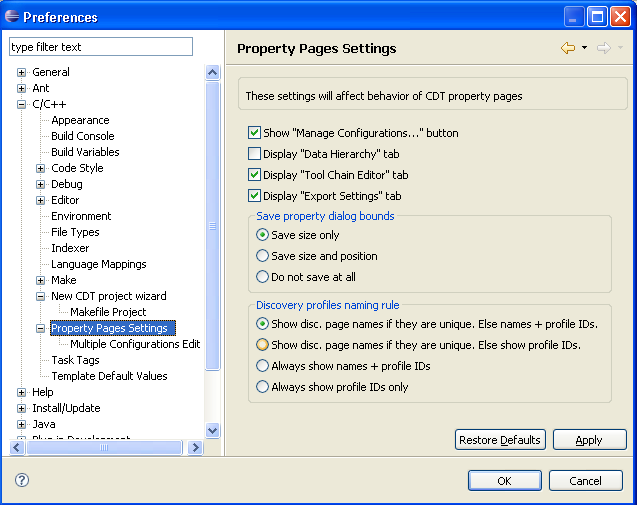
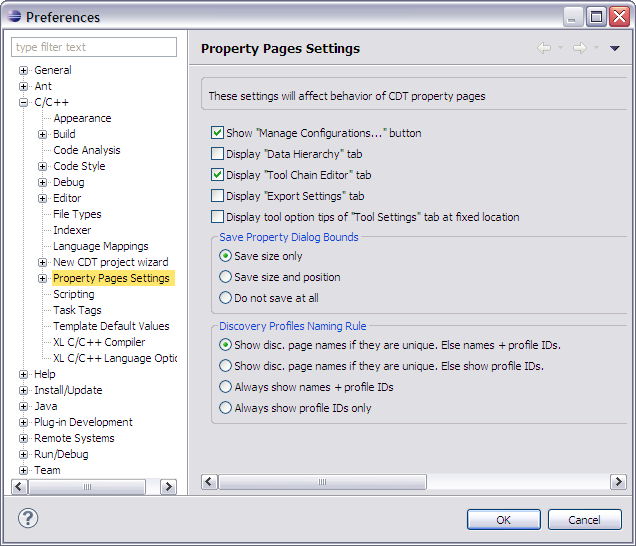
Revised Property Pages and Multi-Config pref panels

diff --git a/all/org.eclipse.cdt.doc.user/reference/cdt_u_pref_multi_cfg.htm b/all/org.eclipse.cdt.doc.user/reference/cdt_u_pref_multi_cfg.htm
@@ -6,56 +6,63 @@
 	<meta http-equiv="Content-Type" content="text/html; charset=UTF-8">
 	<title>Multi-Configuration Edit preferences</title>
 	<link rel="stylesheet" type="text/css" href="../help.css">
+	<script language="JavaScript" src="PLUGINS_ROOT/org.eclipse.help/livehelp.js"></script>
 </head>
 <body>
 
 <h1>Multi-Configuration Edit preferences</h1>
-
-<p>Since CDT 5.0, user is able to edit properties for 
-multiple project configurations simultaneously.</p>
-<p>Either all configuations or some of them can be selected.</p>
-<p>But, then we deal with string list property values, 
-it is not obvious how to concatenate them, if they differ.</p>
-
-
+<p>Use the <img src="../images/command_link.png" border="0" alt="" /> <a class="command-link" href='javascript:executeCommand("org.eclipse.ui.window.preferences(preferencePageId=org.eclipse.cdt.managedbuilder.ui.preferences.PrefPage_MultiConfig)")'>Multi-Configuration Edit</a> preference panel to simultaneously edit properties for multiple project configurations. Its possible to select one or more configurations for editing.</p>
+<p>But, then we deal with string list property values, it is not obvious how to concatenate them, if they differ.</p>
 <p><img src="../images/cdt_pref-multi-cfg.png" alt="Multi-Configuration Edit preferences tab"></p>
-<dl>
-  <dt>String list Display Mode</dt>
-  <dd>Specifies how values will be shown.<br>
-  There are 2 options: conjunction or disjunction.
-  <ul>
-  <li><strong>Conjunction</strong> shows common elements only, so if 1st configuration has 
-  value &lt;A, B, C&gt; and 2nd configuration has &lt;B, C, D&gt;, &lt;B, C&gt; will be shown. 
-  <li><strong>Disjunction</strong> shows all existing elements except doubles, so if 1st configuration has 
-  value &lt;A, B, C&gt; and 2nd configuration has &lt;B, C, D&gt;, &lt;A, B, C, D&gt; will be shown. 
-  </ul>
-  Note that Display mode can be changed directly on each tab which deals with string lists.
-  Result is immediate: data on the tab refereshed according to selected mode.<br>
-  </dd>
-  <dt>String list Write Mode</dt>
-  <dd>Specifies how values will be saved.<br>
-  There are 2 options: modify or replace.
-  <ul>
-  <li><strong>Modify mode</strong> adds, changes or removes elements affected by user's actions.
-  Elements which were not touched by user are left unchanged.<br>   
-  Example: cfg1 has &lt;A, B, C&gt;; cfg2 has &lt;B, C, D&gt;.<br>
-  User removed B and added F.<br>
-  Result: cfg1 has &lt;A, C, F&gt;; cfg2 has &lt;C, D, F&gt;.
-  <li><strong>Replace mode</strong> puts currently visible elements to all configurations.
-  Old contents will be lost.<br>
-  Example: cfg1 has &lt;A, B, C&gt;; cfg2 has &lt;B, C, D&gt;.<br>
-  Visible list depends of Display mode: &lt;B, C&gt; or &lt;A, B, C, D&gt;.<br>
-  User removed B and added F.<br>
-  Result: both cfgs will contain either &lt;C, F&gt; or &lt;A, C, D, F&gt; depending of Display mode.
-  </ul>
-  Note that Write mode can be changed directly on each tab which deals with string lists.<br>
-  </dd>
-  <dt>Restore Defaults</dt>
-  <dd>Sets all parameters to default values</dd>
-  <dt>Apply</dt>
-  <dd>Saves current settings.</dd>
-</dl>
 
+<table width="600px" cellpadding="5" cellspacing="0" border="1" fgcolor="DDD" >
+	<caption><strong>Property Pages Settings Preference Options</strong></caption>
+	<colgroup>
+		<col width="30%" valign="top" >
+		<col width="70%" valign="top" >
+	</colgroup>
+	<thead>
+		<tr>
+			<th><b>Option</b></th>
+			<th><b>Description</b></th>
+		</tr>
+	</thead>
+	<tbody>
+		<tr valign="top" >
+			<td><b>String list Display Mode</b></td>
+			<td>Specifies how values are shown. The two options are:
+			  <ul>
+			  <li><b>Conjunction</b> shows common elements only, so if 1st configuration has 
+			  value &lt;A, B, C&gt; and 2nd configuration has &lt;B, C, D&gt;, &lt;B, C&gt; will be shown. 
+			  <li><b>Disjunction</b> shows all existing elements except doubles, so if 1st configuration has 
+			  value &lt;A, B, C&gt; and 2nd configuration has &lt;B, C, D&gt;, &lt;A, B, C, D&gt; will be shown. 
+			  </ul>
+			  Note that Display mode can be changed directly on each tab which deals with string lists.
+			  Result is immediate: data on the tab is refreshed according to selected mode.</td>
+		</tr>
+		<tr valign="top" >
+			<td><b>String list Write Mode</b></td>
+			<td>Specifies how values are saved. The two options are:
+			  <ul>
+			  <li><strong>Modify mode</strong> adds, changes or removes elements affected by user's actions.
+			  Elements which were not touched by user are left unchanged.<br>   
+			  Example: cfg1 has &lt;A, B, C&gt;; cfg2 has &lt;B, C, D&gt;.<br>
+			  User removed B and added F.<br>
+			  Result: cfg1 has &lt;A, C, F&gt;; cfg2 has &lt;C, D, F&gt;.
+			  <li><strong>Replace mode</strong> puts currently visible elements to all configurations.
+			  Old contents will be lost.<br>
+			  Example: cfg1 has &lt;A, B, C&gt;; cfg2 has &lt;B, C, D&gt;.<br>
+			  Visible list depends of Display mode: &lt;B, C&gt; or &lt;A, B, C, D&gt;.<br>
+			  User removed B and added F.<br>
+			  Result: both cfgs will contain either &lt;C, F&gt; or &lt;A, C, D, F&gt; depending of Display mode.
+			  </ul>
+			  Note that Write mode can be changed directly on each tab which deals with string lists.</td>
+		</tr>
+	</tbody>
+</table>
+
+<p><img border="0" src="../images/ngref.gif" ALT="Related reference" width="143" height="21"><br />
+<a href="cdt_u_pref_prop_pages.htm">Property Pages Settings preferences</a></p>
 </body>
 
 </html>

diff --git a/all/org.eclipse.cdt.doc.user/reference/cdt_u_pref_prop_pages.htm b/all/org.eclipse.cdt.doc.user/reference/cdt_u_pref_prop_pages.htm
@@ -6,46 +6,72 @@
 	<meta http-equiv="Content-Type" content="text/html; charset=UTF-8">
 	<title>Property Pages Settings preferences</title>
 	<link rel="stylesheet" type="text/css" href="../help.css">
+	<script language="JavaScript" src="PLUGINS_ROOT/org.eclipse.help/livehelp.js"></script>
 </head>
 <body>
 
 <h1>Property Pages Settings preferences</h1>
 
-<p>These settings affect behaviour of CDT property pages.</p>
-<p><img src="../images/cdt_pref-prop-pages.png" alt="Property Pages Settings preferences tab"></p>
-<dl>
-  <dt>Show 'Manage Configurations...' button</dt>
-  <dd>Shows or hides corresponding button, normally placed on every property page.<br>
-      If this button is hidden, Manage operation can be accessed from Main Menu or Context Menu.</dd>
-  <dt>Display 'Data hierarchy' tab</dt>
-  <dd>Displays auxilliary tab which allows browsing data of project configurations.
-      This feature is useful for debug purposes mostly, so it's disabled by default.</dd>
-  <dt>Display 'Tool Chain Editor' tab</dt>
-  <dd>Shows or hides corresponding tab. Normally, users need not to edit tool chains manually.</dd>
-  <dt>Save property dialog bounds</dt>
-  <dd>Defines how property dialog parameters will be preserved: 
-  <ul>
-    <li>Save dialog size only (position is set by system).
-    <li>Save dialog and position (next time, dialog will be shown on the same place with the same size).
-    <li>Do not save at all (size and position is set by system each time when dialog is shown).
-  </ul>
-  </dd>
-  <dt>Discovery profiles naming rule</dt>
-  <dd>Discovery profiles have unique IDs, but their names may be duplicate, 
-      expecially if they are contributed by different developers. So there 
+<p>Use the <img src="../images/command_link.png" border="0" alt="" /> <a class="command-link" href='javascript:executeCommand("org.eclipse.ui.window.preferences(preferencePageId=org.eclipse.cdt.managedbuilder.ui.preferences.PrefPage_PropertyPage)")'>Property Pages Settings</a> preference panel to set the behaviors of CDT property pages.</p>
+<p><img src="../images/cdt_pref-prop-pages.png" alt="Property Pages Settings Preference Panel"></p>
+
+<table width="600px" cellpadding="5" cellspacing="0" border="1" fgcolor="DDD" >
+	<caption><strong>Property Pages Settings Preference Options</strong></caption>
+	<colgroup>
+		<col width="30%" valign="top" >
+		<col width="70%" valign="top" >
+	</colgroup>
+	<thead>
+		<tr>
+			<th><b>Option</b></th>
+			<th><b>Description</b></th>
+		</tr>
+	</thead>
+	<tbody>
+		<tr valign="top" >
+			<td><b>Show 'Manage Configurations...' button</b></td>
+			<td>Shows or hides corresponding button, normally placed on every property page.<br>
+      If this button is hidden, Manage operation can be accessed from Main Menu or Context Menu.</td>
+		</tr>
+		<tr valign="top" >
+			<td><b>Display 'Data hierarchy' tab</b></td>
+			<td>Displays auxiliary tab which allows browsing data of project configurations.
+      This feature is useful for debug purposes mostly, so it's disabled by default.</td>
+		</tr>
+		<tr valign="top" >
+			<td><b>Display tool option tips of 'Tool Settings' tab at fixed location</b></td>
+			<td></td>
+		</tr>
+		<tr valign="top" >
+			<td><b>Display 'Tool Chain Editor' tab</b></td>
+			<td>Shows or hides corresponding tab. Normally, users need not to edit tool chains manually.</td>
+		</tr>
+		<tr valign="top" >
+			<td><b>Save Property Dialog Bounds</b></td>
+			<td>Defines how property dialog parameters are preserved: 
+			  <ul>
+			    <li><b>Save size only</b> - position is set by system</li>
+			    <li><b>Save size and position</b> - next time, dialog is shown at the same place with the same size</li>
+			    <li><b>Do not save at all</b> - size and position is set by system each time dialog is shown</li>
+			  </ul></td>
+		</tr>
+		<tr valign="top" >
+			<td><b>Discovery Profiles Naming Rule</b></td>
+			<td>Discovery profiles have unique IDs, but their names may be duplicate, 
+      especially if they are contributed by different developers. So there 
       are 4 way to distinguish them in the list on Discovery tab:
   <ul>
-    <li>Show names if they are unique. Else show Name + ID.
-    <li>Show names if they are unique. Else show IDs only.
-    <li>Always show Name + ID.
-    <li>Always show IDs only.
-  </ul>
-  </dd>
-  <dt>Restore Defaults</dt>
-  <dd>Sets all parameters to default values</dd>
-  <dt>Apply</dt>
-  <dd>Saves current settings.</dd>
-</dl>
+    <li>Show disc. page names if they are unique. Else names + profile IDs.</li>
+    <li>Show disc. page names if they are unique. Else show profile IDs.</li>
+    <li>Always show names + profile IDs</li>
+    <li>Always show profile IDs only</li>
+  </ul></td>
+		</tr>
+	</tbody>
+</table>
+
+<p><img border="0" src="../images/ngref.gif" ALT="Related reference" width="143" height="21"><br />
+<a href="cdt_u_pref_multi_cfg.htm">Multi-Configuration Edit preferences</a></p>
 
 </body>
 

diff --git a/all/org.eclipse.cdt.doc.user/reference/cdt_o_ref.htm b/all/org.eclipse.cdt.doc.user/reference/cdt_o_ref.htm
@@ -49,8 +49,8 @@
   <img src="../images/trans.gif" border="0" width="100" height="1" alt=""><a style="text-decoration:none" href="cdt_u_appearance_pref.htm">Appearance</a><br>
   <img src="../images/trans.gif" border="0" width="100" height="1" alt=""><a style="text-decoration:none" href="cdt_u_pref_build.htm">Build preferences</a><br>
   <img src="../images/trans.gif" border="0" width="150" height="1" alt=""><a style="text-decoration:none" href="cdt_u_console_pref.htm">Console</a><br>
-  <img src="../images/trans.gif" border="0" width="150" height="1" alt=""><a style="text-decoration:none" href="cdt_u_environment_pref.htm">Environment<br>      
-      </a><a style="text-decoration:none" href="cdt_u_make_pref.htm"><img src="../images/trans.gif" border="0" width="150" height="1" alt="">Make Targets</a><br>
+  <img src="../images/trans.gif" border="0" width="150" height="1" alt=""><a style="text-decoration:none" href="cdt_u_environment_pref.htm">Environment</a><br />
+  <img src="../images/trans.gif" border="0" width="150" height="1" alt=""><a style="text-decoration:none" href="cdt_u_make_pref.htm">Make Targets</a><br>
   <img src="../images/trans.gif" border="0" width="150" height="1" alt=""><a style="text-decoration:none" href="cdt_u_makefile_settings_pref.htm">Makefile Editor</a><br>
   <img src="../images/trans.gif" border="0" width="200" height="1" alt=""><a style="text-decoration:none" href="cdt_u_make_settings_pref.htm">Settings</a><br>
   <img src="../images/trans.gif" border="0" width="100" height="1" alt=""><a style="text-decoration:none" href="cdt_u_debug.htm">Debug preferences</a><br>
@@ -65,7 +65,7 @@
   <img src="../images/trans.gif" border="0" width="150" height="1" alt=""><a style="text-decoration:none" href="cdt_u_c_editor_folding.htm">Folding</a><br>
   <img src="../images/trans.gif" border="0" width="150" height="1" alt=""><a style="text-decoration:none" href="cdt_u_c_editor_hov.htm">Hovers</a><br>
   <img src="../images/trans.gif" border="0" width="150" height="1" alt=""><a style="text-decoration:none" href="cdt_u_c_editor_mark_occurrences.htm">Mark Occurrences<br>      
-      </a><img src="../images/trans.gif" border="0" width="150" height="1" alt=""><a style="text-decoration:none" href="cdt_u_c_editor_save_actions.htm">Save Actions</a><br>
+  <img src="../images/trans.gif" border="0" width="150" height="1" alt=""><a style="text-decoration:none" href="cdt_u_c_editor_save_actions.htm">Save Actions</a><br>
   <img src="../images/trans.gif" border="0" width="150" height="1" alt=""><a style="text-decoration:none" href="cdt_u_c_editor_scalability.htm">Scalability</a><br>
   <img src="../images/trans.gif" border="0" width="150" height="1" alt=""><a style="text-decoration:none" href="cdt_u_c_editor_color.htm">Syntax Coloring</a><br>
   <img src="../images/trans.gif" border="0" width="150" height="1" alt=""><a style="text-decoration:none" href="cdt_u_code_temp.htm">Templates</a><br>
@@ -73,6 +73,10 @@
   <img src="../images/trans.gif" border="0" width="100" height="1" alt=""><a style="text-decoration:none" href="cdt_u_c_file_types.htm">File Types</a><br>
   <img src="../images/trans.gif" border="0" width="100" height="1" alt=""><a style="text-decoration:none" href="cdt_u_indexer_preference.html">Indexer</a><br>
   <img src="../images/trans.gif" border="0" width="100" height="1" alt=""><a style="text-decoration:none" href="cdt_u_language_mapping_pref.htm">Language Mappings</a><br>
+  
+  <img src="../images/trans.gif" border="0" width="100" height="1" alt=""><a style="text-decoration:none" href="cdt_u_pref_prop_pages.htm">Property Pages Settings</a><br>
+  	<img src="../images/trans.gif" border="0" width="150" height="1" alt=""><a style="text-decoration:none" href="cdt_u_pref_multi_cfg.htm">Multi-Configuration Edit</a><br>
+  	
   <img src="../images/trans.gif" border="0" width="100" height="1" alt=""><a style="text-decoration:none" href="cdt_u_make_pref.htm"></a><br>
   <img src="../images/trans.gif" border="0" width="100" height="1" alt=""><a style="text-decoration:none" href="cdt_o_proj_prop_pages.htm">New Make Projects properties preferences</a><br>
   <img src="../images/trans.gif" border="0" width="150" height="1" alt=""><a style="text-decoration:none" href="cdt_u_newproj_buildset.htm">Make Builder preferences</a><br>
